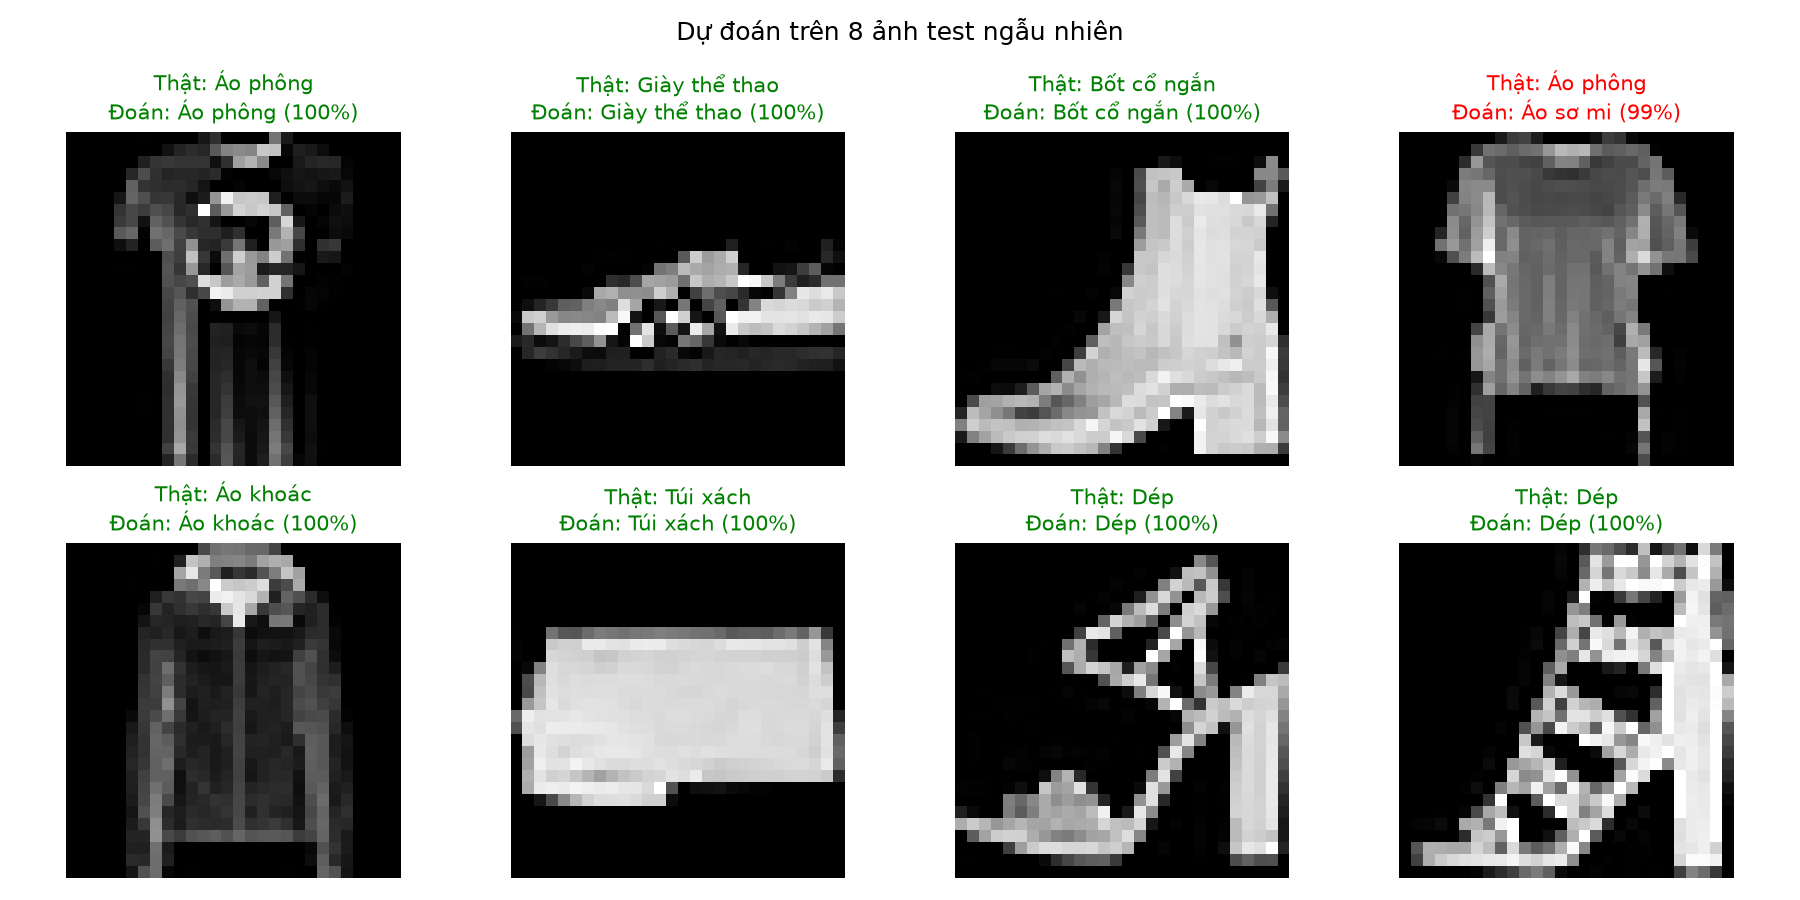
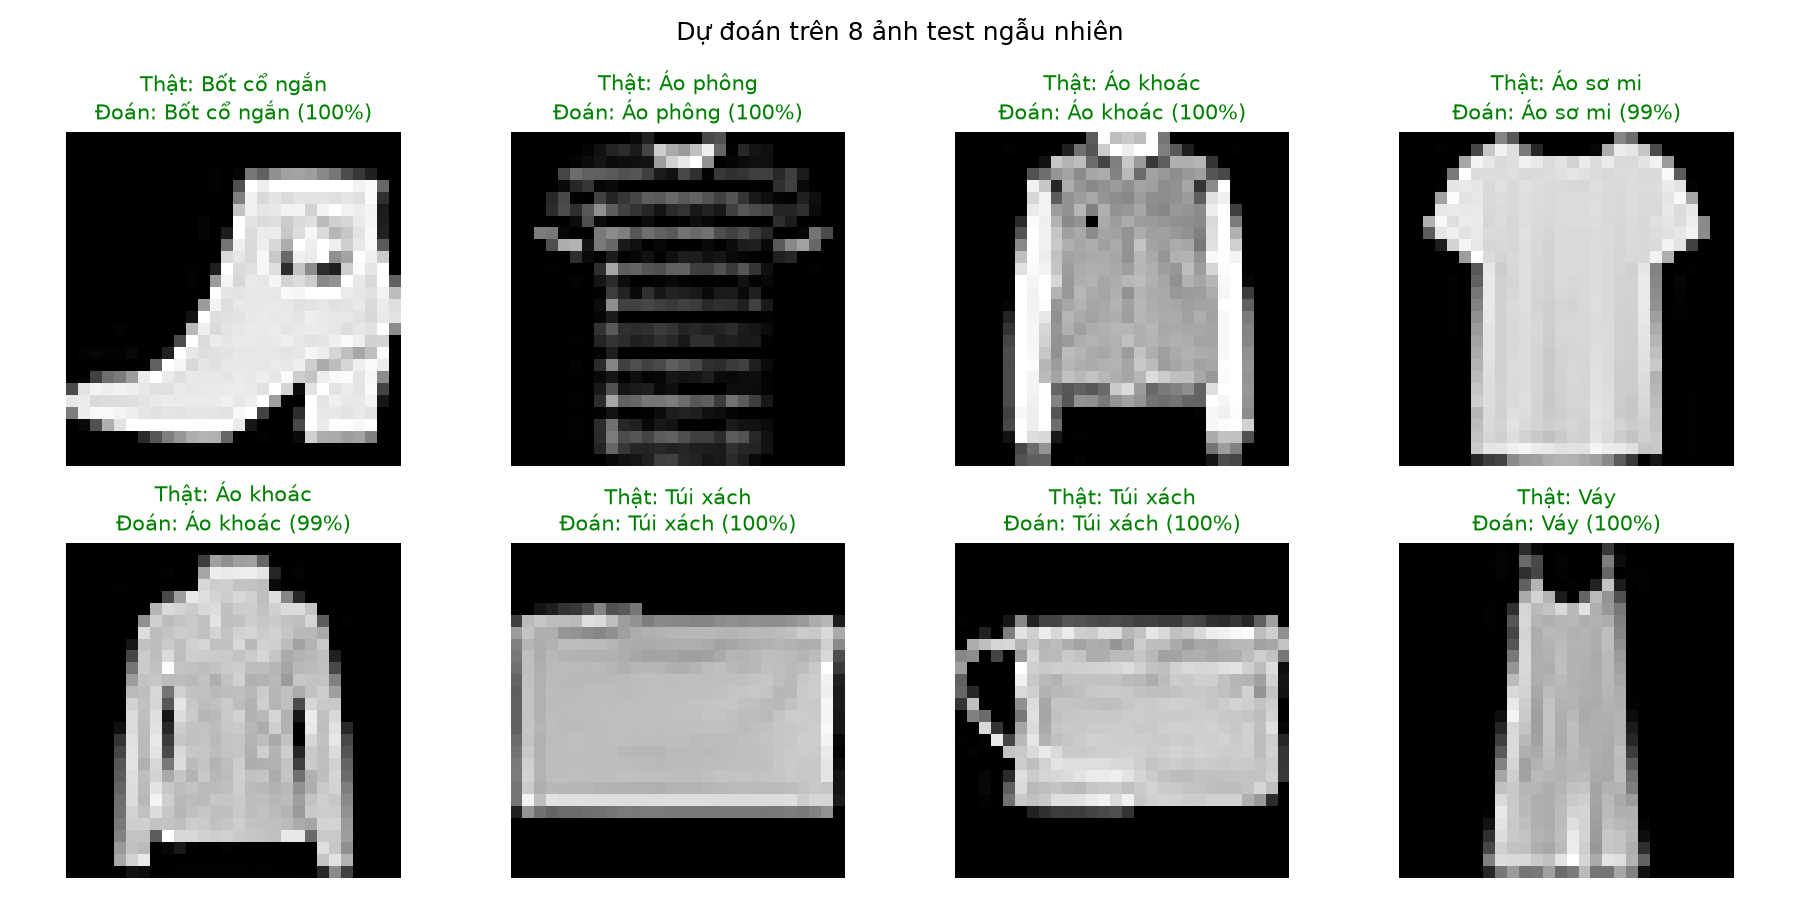
feat: đối chiếu PyTorch — gradient ~1e-16, loss qua 5 bước SGD ~1e-12

diff --git a/mlp-numpy/experiments/torch_reference.py b/mlp-numpy/experiments/torch_reference.py
@@ -1,12 +1,76 @@
-"""Phần 'Yêu cầu khác': đối chiếu bản NumPy với bản PyTorch tương đương
-để kiểm chứng tính đúng đắn.
+"""Đối chiếu bản NumPy với PyTorch để kiểm chứng tính đúng đắn."""
+import numpy as np
+import torch
+import torch.nn as nn
 
-Cách đối chiếu thuyết phục nhất (mạnh hơn là chỉ so accuracy cuối cùng):
-  1. Dựng nn.Sequential cùng kiến trúc.
-  2. COPY trọng số từ mô hình NumPy sang PyTorch (nhớ transpose: NumPy dùng
-     W (D_in, D_out), torch.nn.Linear dùng weight (D_out, D_in)).
-  3. Cho cùng một batch đi qua cả hai -> so logits (sai khác ~1e-10).
-  4. backward cả hai -> so gradient từng tầng.
-  5. Chạy vài bước SGD với cùng lr -> so loss theo từng bước.
-"""
-raise NotImplementedError
+from src.config import Config
+from src.losses import softmax_cross_entropy
+from src.model import MLP
+from src.utils import set_seed
+
+rng = set_seed(0)
+cfg = Config(activation="relu", init="he", hidden_sizes=[256, 128, 64])
+mynet = MLP(784, cfg.hidden_sizes, 10, cfg, rng)
+
+# 1. Dựng mạng PyTorch cùng kiến trúc
+torch_net = nn.Sequential(
+    nn.Linear(784, 256), nn.ReLU(),
+    nn.Linear(256, 128), nn.ReLU(),
+    nn.Linear(128, 64),  nn.ReLU(),
+    nn.Linear(64, 10),
+)
+torch_net = torch_net.double()
+
+
+# 2. Copy trọng số — TRANSPOSE
+my_linears = [l for l in mynet.layers if hasattr(l, "W")]
+torch_linears = [m for m in torch_net if isinstance(m, nn.Linear)]
+
+with torch.no_grad():
+    for ml, tl in zip(my_linears, torch_linears):
+        tl.weight.copy_(torch.tensor(ml.W.T))   # (D_in,D_out) -> (D_out,D_in)
+        tl.bias.copy_(torch.tensor(ml.b))
+
+# 3. Cùng một batch qua cả hai
+X = rng.standard_normal((16, 784))
+y = rng.integers(0, 10, size=16)
+
+logits_np = mynet.forward(X)
+Xt = torch.tensor(X, dtype=torch.float64)
+logits_t = torch_net(Xt)
+
+print("Lệch logits :", np.abs(logits_np - logits_t.detach().numpy()).max())
+
+# 4. So gradient
+loss_np, dZ = softmax_cross_entropy(logits_np, y)
+mynet.backward(dZ)
+
+loss_t = nn.functional.cross_entropy(logits_t, torch.tensor(y))
+loss_t.backward()
+
+print("Lệch loss   :", abs(loss_np - loss_t.item()))
+for i, (ml, tl) in enumerate(zip(my_linears, torch_linears)):
+    dw = np.abs(ml.dW - tl.weight.grad.numpy().T).max()
+    db = np.abs(ml.db - tl.bias.grad.numpy()).max()
+    print(f"Tầng {i}: lệch dW = {dw:.2e}   lệch db = {db:.2e}")
+
+# 5. So loss qua vài bước SGD
+from src.optim import SGD
+
+print("\n--- 5 bước SGD, lr = 0.1 ---")
+opt_np = SGD(mynet.params_and_grads, lr=0.1)
+opt_t = torch.optim.SGD(torch_net.parameters(), lr=0.1)
+yt = torch.tensor(y)
+
+for step in range(5):
+    loss_np, dZ = softmax_cross_entropy(mynet.forward(X), y)
+    mynet.backward(dZ)
+    opt_np.step()
+
+    opt_t.zero_grad()
+    loss_t = nn.functional.cross_entropy(torch_net(Xt), yt)
+    loss_t.backward()
+    opt_t.step()
+
+    print(f"bước {step}:  numpy {loss_np:.12f}   torch {loss_t.item():.12f}   "
+          f"lệch {abs(loss_np - loss_t.item()):.2e}")

diff --git a/mlp-numpy/demo.py b/mlp-numpy/demo.py
@@ -25,7 +25,8 @@ def predict(X):
 
 # 3. Lấy 8 ảnh test ngẫu nhiên
 (_, _), (Xte, yte) = load_raw()
-rng = np.random.default_rng(42)
+# Đổi seed slide 42, 
+rng = np.random.default_rng(30)
 idx = rng.choice(len(Xte), 8, replace=False)
 
 logits = predict(Xte[idx])
